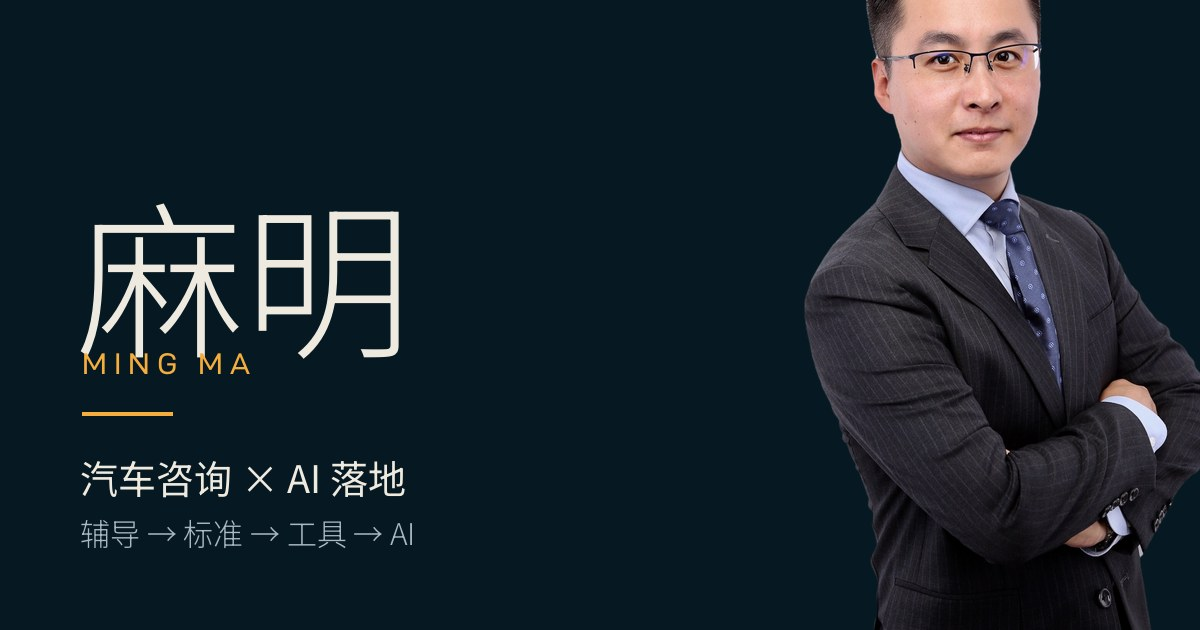
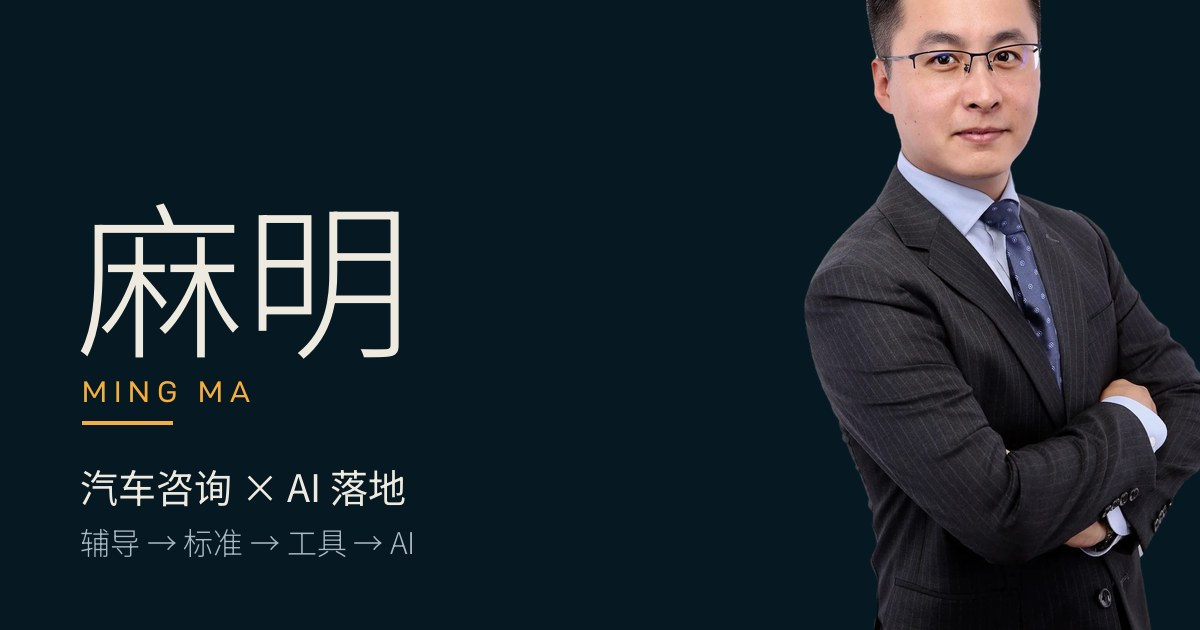
分享卡片：拼音不再压在名字上
“MING MA”原来画在“麻明”两个字的下沿笔画上。改为按名字墨迹的下沿定位，金色横线随之下移。

Changed region(s): [[0.0617, 0.7238, 0.3392, 0.8746], [0.0617, 0.5429, 0.2158, 0.6937]]

diff --git a/tools/build_assets.py b/tools/build_assets.py
@@ -43,7 +43,7 @@ def save(img, name, quality, **kw):
 
 # 1. Studio portrait: combine the photo with the Vision person matte, pull the edge in by a
 #    hair so no light fringe survives on a dark instrument face, then export the cut-out
-#    used by the WebGL field.
+#    shown on the first screen.
 photo = Image.open(a.portrait).convert("RGB")
 mask = Image.open(a.cutout).convert("L").resize(photo.size, Image.LANCZOS)
 # firm up the soft matte: below 60 is background, above 215 is person, feathered between
@@ -59,10 +59,6 @@ cut = cut.crop(box)
 target_h = 1600
 cut = cut.resize((round(cut.width * target_h / cut.height), target_h), Image.LANCZOS)
 save(cut, "portrait-cutout.webp", 84)
-
-# small sampling copy for the shader (keeps the texture read cheap)
-sample = cut.resize((round(cut.width * 560 / cut.height), 560), Image.LANCZOS)
-save(sample, "portrait-sample.webp", 80)
 
 # preview of the cut-out on the instrument face
 bg = Image.new("RGB", (cut.width + 160, cut.height + 80), PETROL)
@@ -119,10 +115,16 @@ def vf(weight, size):
 
 name_font = vf(300, 168)
 d.text((76, 150), "麻明", font=name_font, fill=IVORY)
-tracked(d, (82, 346), "MING MA", ImageFont.truetype(str(ddin / "D-DINExp.otf"), 30), AMBER, 7)
-d.rectangle([82, 412, 172, 415], fill=AMBER)
-d.text((80, 448), "汽车咨询 × AI 落地", font=vf(400, 38), fill=IVORY)
-d.text((80, 510), "辅导 → 标准 → 工具 → AI", font=vf(300, 30), fill=(169, 184, 193))
+# the romanised name sits clear below the two characters, measured from where their ink ends
+name_bottom = d.textbbox((76, 150), "麻明", font=name_font)[3]
+ming_font = ImageFont.truetype(str(ddin / "D-DINExp.otf"), 30)
+ming_top = d.textbbox((0, 0), "MING MA", font=ming_font)[1]
+tracked(d, (82, name_bottom + 22 - ming_top), "MING MA", ming_font, AMBER, 7)
+ming_bottom = name_bottom + 22 - ming_top + d.textbbox((0, 0), "MING MA", font=ming_font)[3]
+rule_top = ming_bottom + 18
+d.rectangle([82, rule_top, 172, rule_top + 3], fill=AMBER)
+d.text((80, rule_top + 36), "汽车咨询 × AI 落地", font=vf(400, 38), fill=IVORY)
+d.text((80, rule_top + 98), "辅导 → 标准 → 工具 → AI", font=vf(300, 30), fill=(169, 184, 193))
 path = IMG / "og.jpg"
 og.save(path, "JPEG", quality=88, optimize=True)
 print(f"{'og.jpg':34s} {W}x{H}  {path.stat().st_size / 1024:7.1f} KB")
